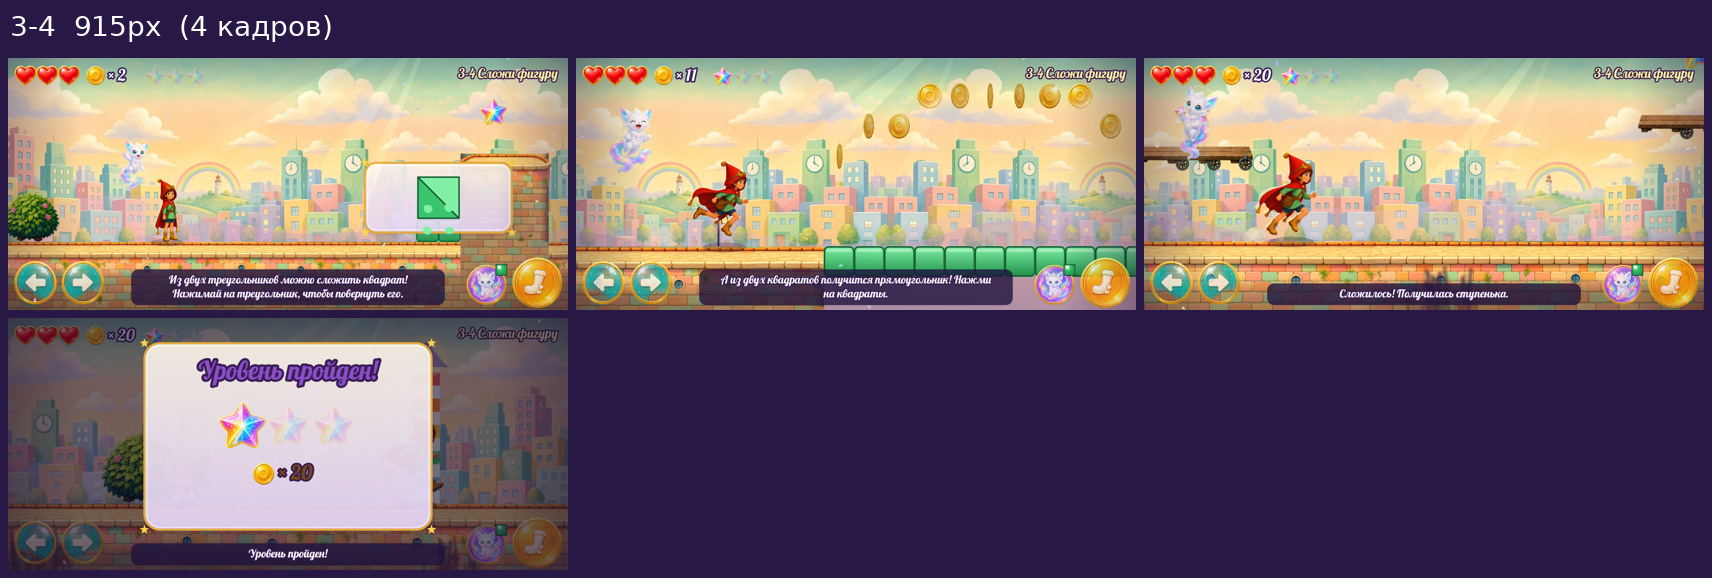
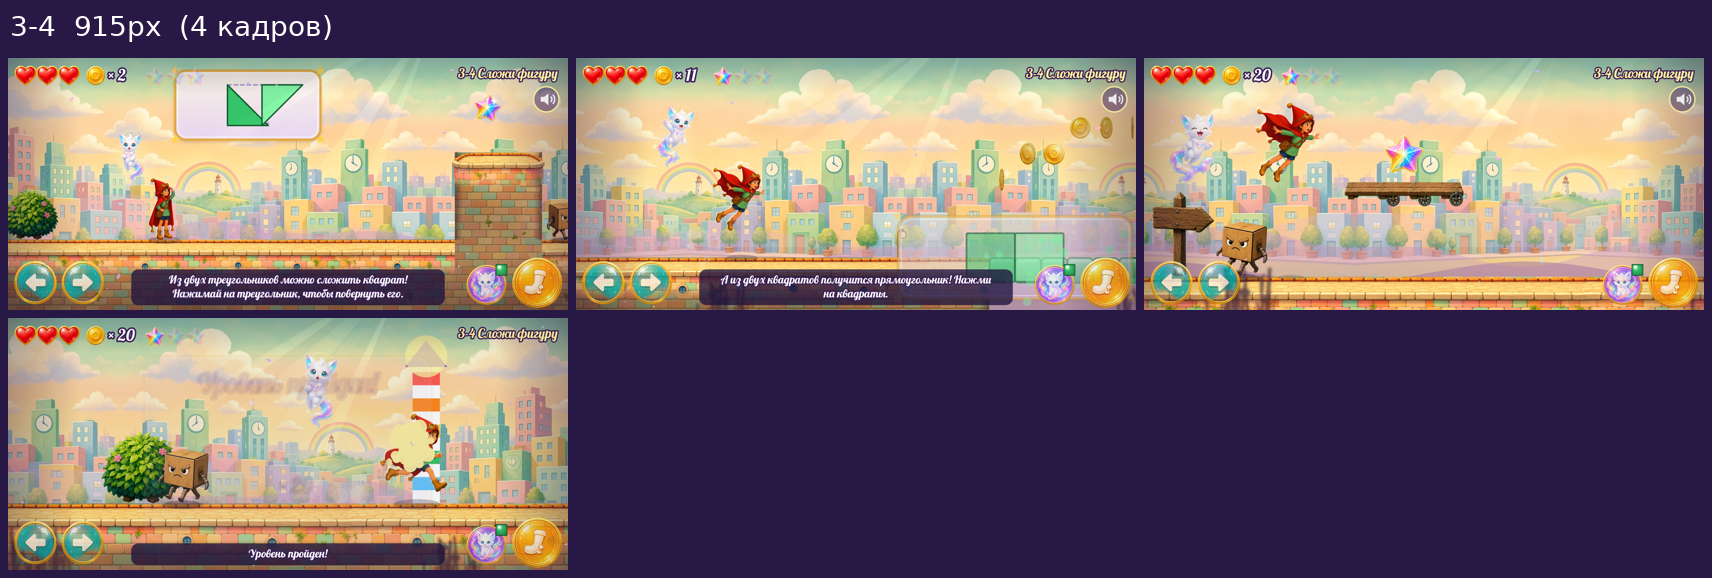
v16: test results, sheets

diff --git a/tools/ba16.py b/tools/ba16.py
@@ -1,0 +1,18 @@
+from PIL import Image,ImageDraw,ImageFont
+F=ImageFont.truetype('/usr/share/fonts/truetype/dejavu/DejaVuSans-Bold.ttf',26)
+fh=round(560*412/915)
+def blk(l):
+  a=Image.open(f'sheets/v15/915_{l}.png').convert('RGB');b=Image.open(f'sheets/v16/915_{l}.png').convert('RGB')
+  ca=a.crop((0,58,a.width,58+fh));cb=b.crop((0,58,b.width,58+fh))
+  R=Image.new('RGB',(ca.width,fh*2+80),(40,24,70));d=ImageDraw.Draw(R)
+  d.text((10,6),f'{l}  v15 (до)',fill='#ffd',font=F);R.paste(ca,(0,40));d.text((10,fh+44),f'{l}  v16 (после)',fill='#aff',font=F);R.paste(cb,(0,fh+80));return R
+def stack(o):
+  S=Image.new('RGB',(o[0].width,sum(x.height for x in o)));y=0
+  for x in o:S.paste(x,(0,y));y+=x.height
+  return S
+allb=[]
+for w in range(1,7):
+  ls=[f'{w}-1',f'{w}-2'] if w==6 else [f'{w}-1',f'{w}-3']
+  bs=[blk(l) for l in ls];allb+=bs
+  stack(bs).save(f'sheets/v16/ba_915_w{w}.jpg',quality=85)
+S=stack(allb);S=S.resize((S.width*2//3,S.height*2//3));S.save('sheets/before_after_v16_915.png');print(S.size)

diff --git a/PROGRESS.md b/PROGRESS.md
@@ -131,3 +131,8 @@
 - Звёзды: по 3 на каждом уровне, все достижимы текущей формой.
 Графика:
 - Новые позы Таси: машет, смотрит вдаль, ой!, приземление — один масштаб, якорь по ступням.
+Тесты v16 (915x412@3):
+- test.py: W1 1-1..1-4, W2–W6 включая боссов — bad 0, badFeet 0, ошибок 0; headless minFps 21–25 (как в v15, без адаптации).
+- rotate.py: FAILS 0. phone.py: растяжения нет (aniso ≈1.000, bad 0), ошибок 0.
+- voicetest.py (спидран, 6 миров): все PASS; задержка медиана 0.13–0.16 с, p95 0.23–0.31 с, макс 0.41 с (W5); наложений 0, устаревших реплик 0.
+- Листы: sheets/v16/915_*.png, sheets/v16/ba_915_w1..w6.jpg, sheets/before_after_v16_915.png (tools/ba16.py).
